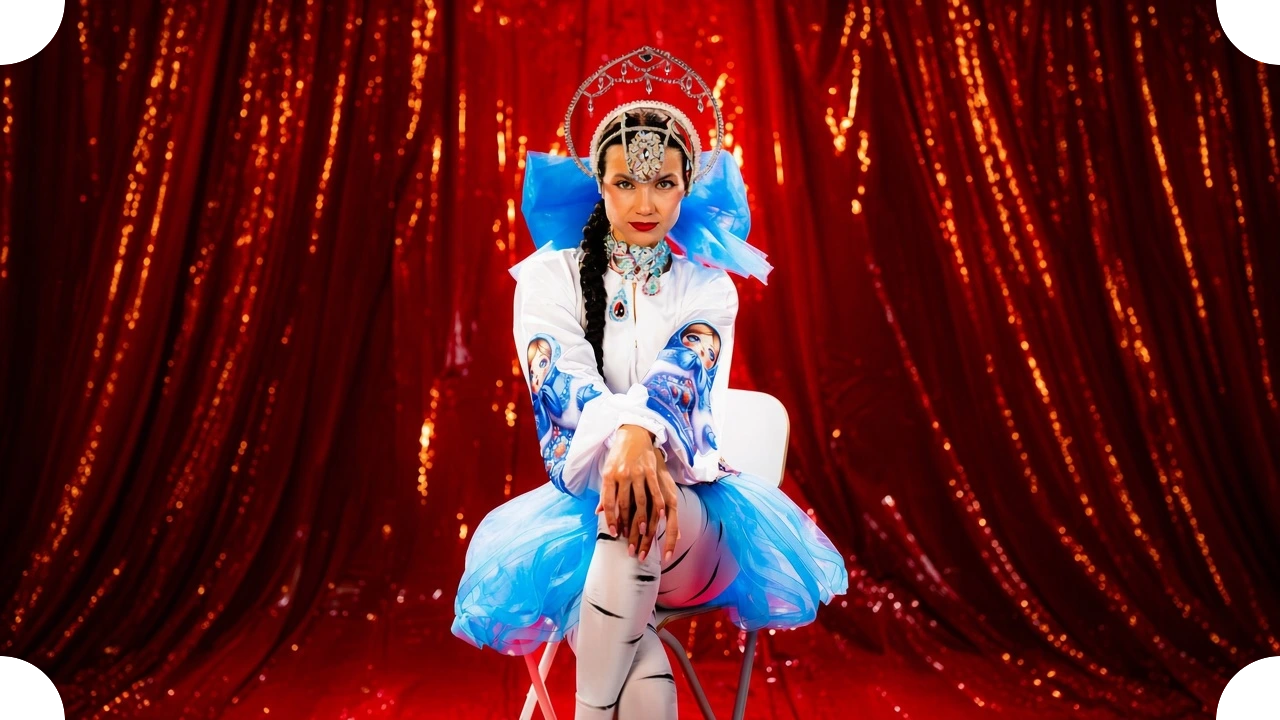
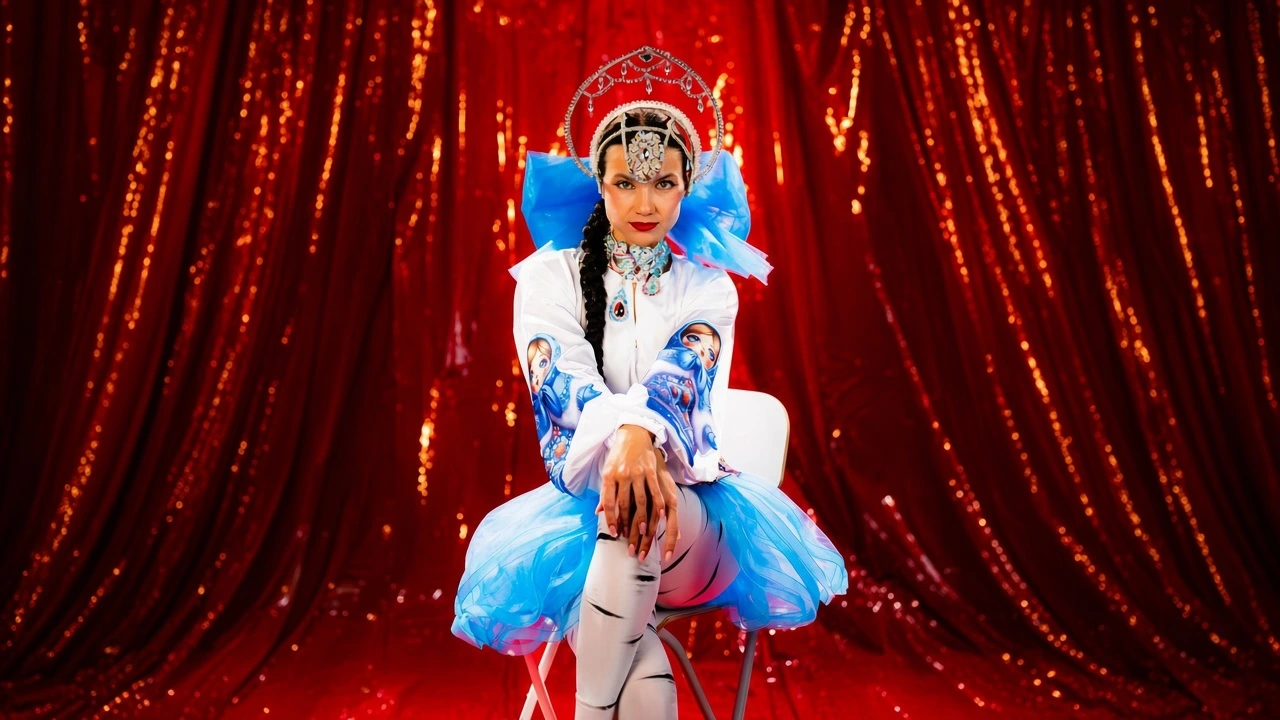
Remove corner cutouts and background artifacts on show block photos

diff --git a/index.html b/index.html
@@ -747,6 +747,16 @@
         display: none !important;
     }
 
+    .about_show .show_block .image-frame,
+    html body .about_show .show_block .image-frame {
+        border-radius: 16px !important;
+        overflow: hidden !important;
+        background: transparent !important;
+        background-color: transparent !important;
+        box-shadow: 0 10px 30px rgba(0, 0, 0, 0.75) !important;
+        border: none !important;
+    }
+
     .about_show .show_block .image-frame img.cut-corners,
     html body .about_show .show_block .image-frame .cut-corners {
         position: absolute !important;
@@ -765,7 +775,9 @@
         box-sizing: border-box !important;
         margin: 0 !important;
         padding: 0 !important;
-        border-radius: 6px !important;
+        border-radius: 16px !important;
+        background: transparent !important;
+        background-color: transparent !important;
         z-index: 1 !important;
         clip-path: none !important;
         -webkit-clip-path: none !important;
@@ -1513,7 +1525,7 @@
             <!-- Блок 1: фотка слева, текст справа -->
             <div class="show_block">
                 <div class="image-frame">
-                    <img class="cut-corners" src="./about1.webp?v=1791550331972" alt="Что вас ждет на шоу" loading="lazy" decoding="async">
+                    <img class="cut-corners" src="./about1.webp?v=1791593000" alt="Что вас ждет на шоу" loading="lazy" decoding="async">
                 </div>
                 <div class="block_info">
                     <h3>Что вас ждет на шоу</h3>
@@ -1528,14 +1540,14 @@
                     <p>Особую атмосферу красоты и магии в нашем представлении создают роскошные костюмы и уникальные образы артистов в танцевальных номерах. Каждый костюм шоу является эксклюзивным, уникальным,изделием ручной работы дизайнеров и мастеров. Эти детали не просто дополняют яркое выступление, но и подчеркивают неповторимый стиль шоу Та-Ис, создавая ту самую магическую атмосферу праздника!</p>
                 </div>
                 <div class="image-frame second_order">
-                    <img class="cut-corners" src="./about2.webp?v=1791550331972" alt="Роскошные костюмы" loading="lazy" decoding="async">
+                    <img class="cut-corners" src="./about2.webp?v=1791593000" alt="Роскошные костюмы" loading="lazy" decoding="async">
                 </div>
             </div>
 
             <!-- Блок 3: фотка слева, текст справа -->
             <div class="show_block">
                 <div class="image-frame">
-                    <img class="cut-corners" src="./about3.webp?v=1791550331972" alt="Встреча гостей (Пре-шоу)" loading="lazy" decoding="async">
+                    <img class="cut-corners" src="./about3.webp?v=1791593000" alt="Встреча гостей (Пре-шоу)" loading="lazy" decoding="async">
                 </div>
                 <div class="block_info">
                     <h3>Встреча гостей (Пре-шоу)</h3>

diff --git a/style.min.css b/style.min.css
@@ -11573,8 +11573,11 @@ html body .events .event-item .overlay-image {
     display: block !important;
     overflow: hidden !important;
     box-sizing: border-box !important;
-    border-radius: 8px !important;
+    border-radius: 16px !important;
     padding: 0 !important;
+    background: transparent !important;
+    background-color: transparent !important;
+    border: none !important;
 }
 .about_show .show_block .image-frame img.cut-corners,
 .events-info .image-frame img.cut-corners {
@@ -11593,31 +11596,14 @@ html body .events .event-item .overlay-image {
     box-sizing: border-box !important;
     margin: 0 !important;
     padding: 0 !important;
-    --cut: clamp(16px, 4.3vw, 24px);
-    -webkit-mask:
-      radial-gradient(circle at 0 0, transparent calc(var(--cut) - 0.5px), #000 var(--cut)) top left,
-      radial-gradient(circle at 100% 0, transparent calc(var(--cut) - 0.5px), #000 var(--cut)) top right,
-      radial-gradient(circle at 100% 100%, transparent calc(var(--cut) - 0.5px), #000 var(--cut)) bottom right,
-      radial-gradient(circle at 0 100%, transparent calc(var(--cut) - 0.5px), #000 var(--cut)) bottom left !important;
-    -webkit-mask-size: 51% 51% !important;
-    -webkit-mask-repeat: no-repeat !important;
-    mask:
-      radial-gradient(circle at 0 0, transparent calc(var(--cut) - 0.5px), #000 var(--cut)) top left,
-      radial-gradient(circle at 100% 0, transparent calc(var(--cut) - 0.5px), #000 var(--cut)) top right,
-      radial-gradient(circle at 100% 100%, transparent calc(var(--cut) - 0.5px), #000 var(--cut)) bottom right,
-      radial-gradient(circle at 0 100%, transparent calc(var(--cut) - 0.5px), #000 var(--cut)) bottom left !important;
-    mask-size: 51% 51% !important;
-    mask-repeat: no-repeat !important;
-    clip-path: polygon(
-      var(--cut) 0%,
-      calc(100% - var(--cut)) 0%,
-      100% var(--cut),
-      100% calc(100% - var(--cut)),
-      calc(100% - var(--cut)) 100%,
-      var(--cut) 100%,
-      0% calc(100% - var(--cut)),
-      0% var(--cut)
-    ) !important;
+    border-radius: 16px !important;
+    background: transparent !important;
+    background-color: transparent !important;
+    border: none !important;
+    mask: none !important;
+    -webkit-mask: none !important;
+    clip-path: none !important;
+    -webkit-clip-path: none !important;
 }
 .about_show .show_block .image-frame picture,
 .events-info .image-frame picture {

diff --git a/style.css b/style.css
@@ -2156,8 +2156,12 @@ body.no-scroll,
     display: block !important;
     overflow: hidden !important;
     box-sizing: border-box !important;
-    border-radius: 8px !important;
+    border-radius: 16px !important;
     padding: 0 !important;
+    background: transparent !important;
+    background-color: transparent !important;
+    box-shadow: 0 10px 30px rgba(0, 0, 0, 0.75) !important;
+    border: none !important;
 }
 
 .about_show .show_block .image-frame img.cut-corners,
@@ -2178,23 +2182,14 @@ body.no-scroll,
     box-sizing: border-box !important;
     margin: 0 !important;
     padding: 0 !important;
-    border-radius: 6px !important;
+    border-radius: 16px !important;
+    background: transparent !important;
+    background-color: transparent !important;
     z-index: 1 !important;
     clip-path: none !important;
     -webkit-clip-path: none !important;
-}
-
-.about_show .show_block .image-frame {
-    border-radius: 16px !important;
-    overflow: hidden !important;
-    box-shadow: 0 10px 30px rgba(0, 0, 0, 0.75) !important;
-    border: none !important;
-}
-
-.about_show .show_block .image-frame img.cut-corners {
-    border-radius: 16px !important;
-    clip-path: none !important;
-    -webkit-clip-path: none !important;
+    mask: none !important;
+    -webkit-mask: none !important;
     border: none !important;
 }
 
